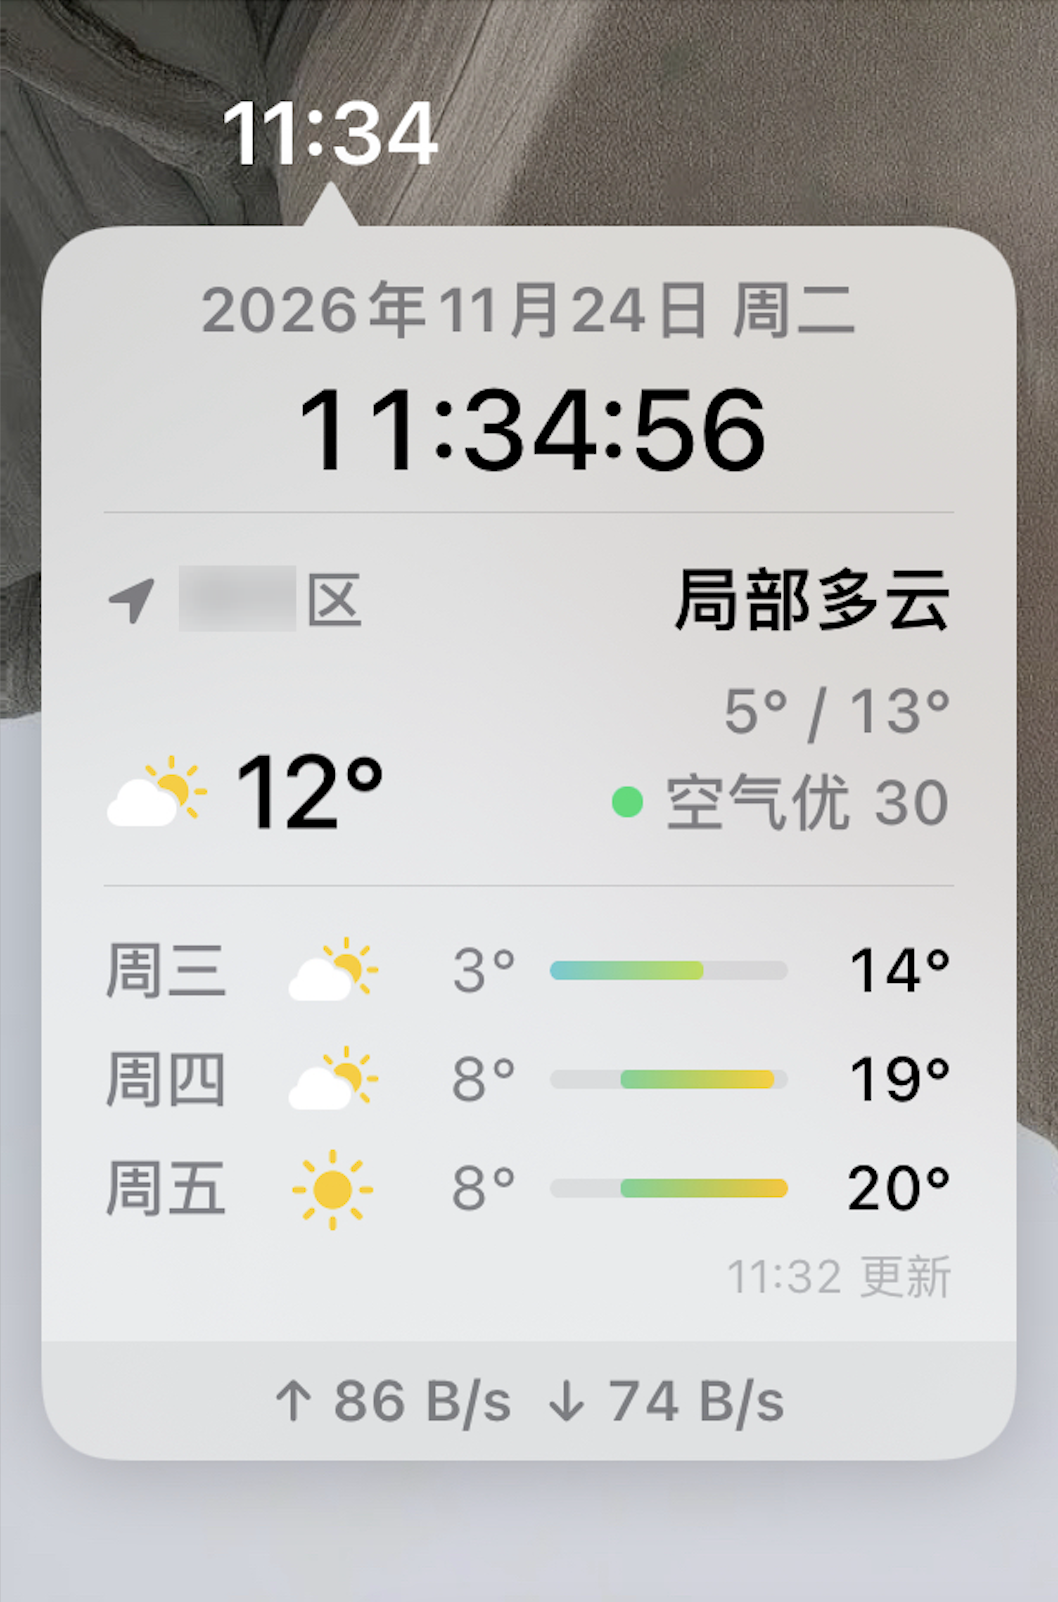
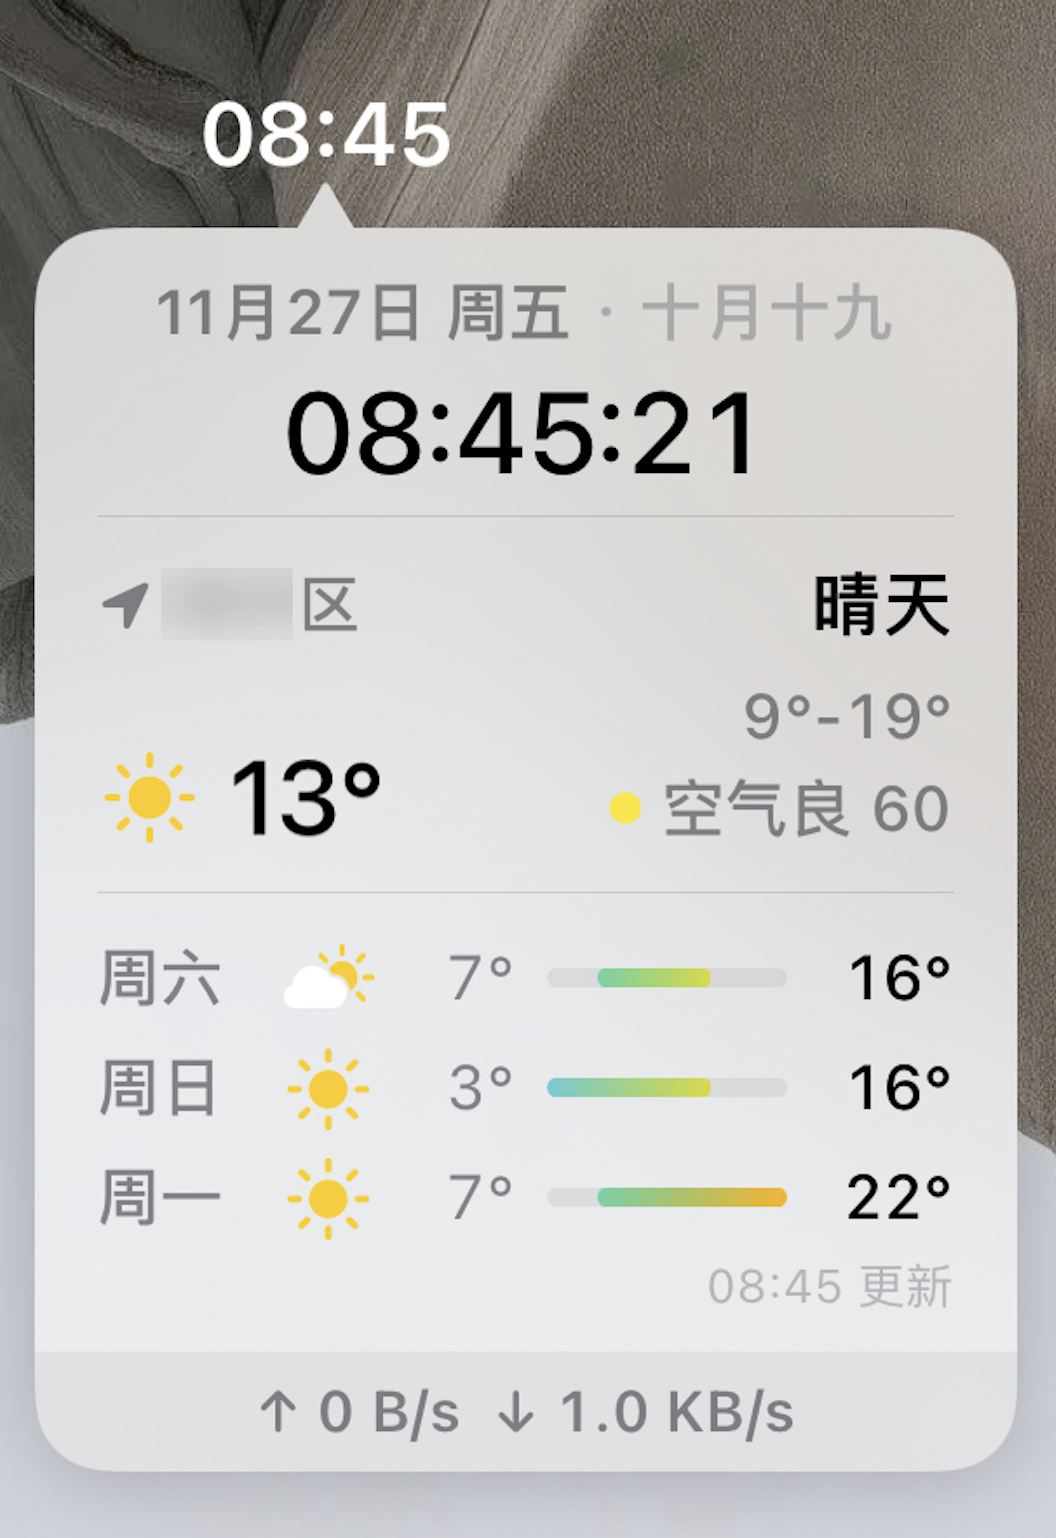
快捷时间胶囊介绍图更新

diff --git a/depictions/dateinfo.html b/depictions/dateinfo.html
@@ -43,7 +43,7 @@
   </div>
 
   <div class="shots">
-    <img src="https://temple002.github.io/zhuifeng/depictions/dateinfo/screen-01.png" alt="胶囊展开效果：时间、天气与网速">
+    <img src="https://temple002.github.io/zhuifeng/depictions/dateinfo/screen-01.png" alt="胶囊展开效果：日期与农历、时间、天气与网速">
   </div>
   <div class="caption">轻点状态栏时间，胶囊向下展开：日期、天气与实时网速</div>
 
